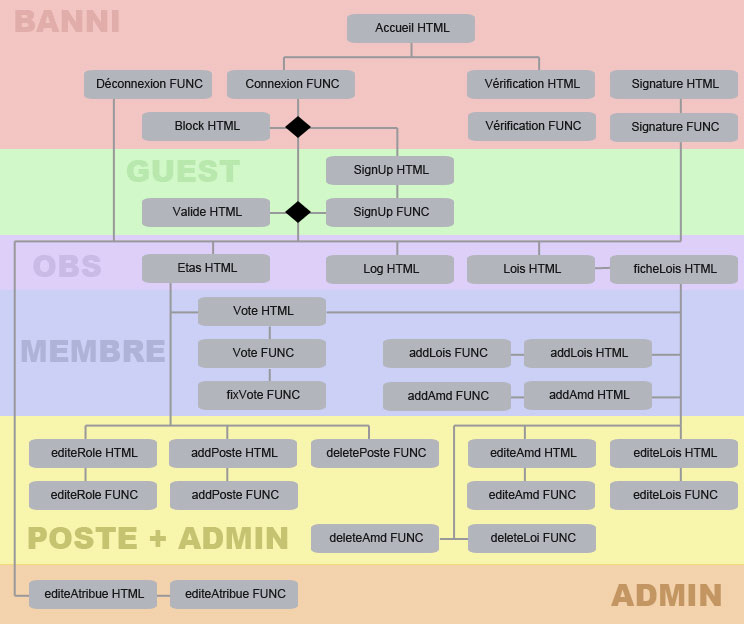
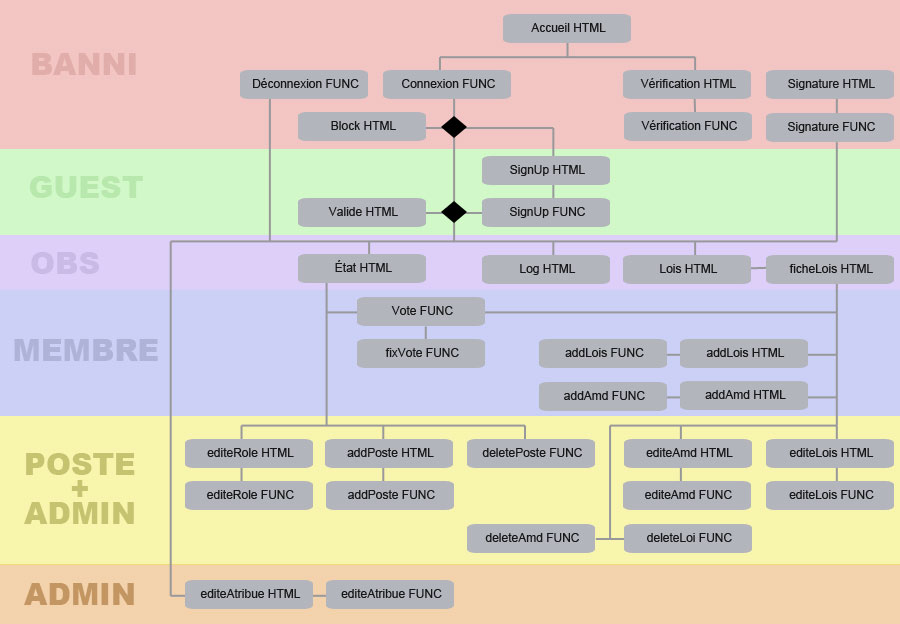
Edit SFD doc

diff --git a/doc/specification_fonctionnelle.md b/doc/specification_fonctionnelle.md
@@ -267,7 +267,7 @@ Un système de vote pseudo-anonyme avec une minime utilisation de brute force po
 ### Ω Log HTML
 > Elle affiche l'historique du site.
 
-### Ω Etas HTML
+### Ω État HTML
 > Elle affiche les postes et les utilisateurs élus. Elle est le point d'entrer pour toutes les fonctions touchant les postes et membres de l'api.
 
 ### Ω addPoste HTML
@@ -278,9 +278,6 @@ Un système de vote pseudo-anonyme avec une minime utilisation de brute force po
 
 ### Ω deletePoste FUNC
 > Elle lance un appel à l'api pour la suppression du poste.
-
-### Ω Vote HTML
-> Elle permet de proposer son vote.
 
 ### Ω Vote FUNC
 > Elle lance un appel à l'api avec les données du vote. Si succès, alors confirmer son vote en le signant a l'aide de code pin.
